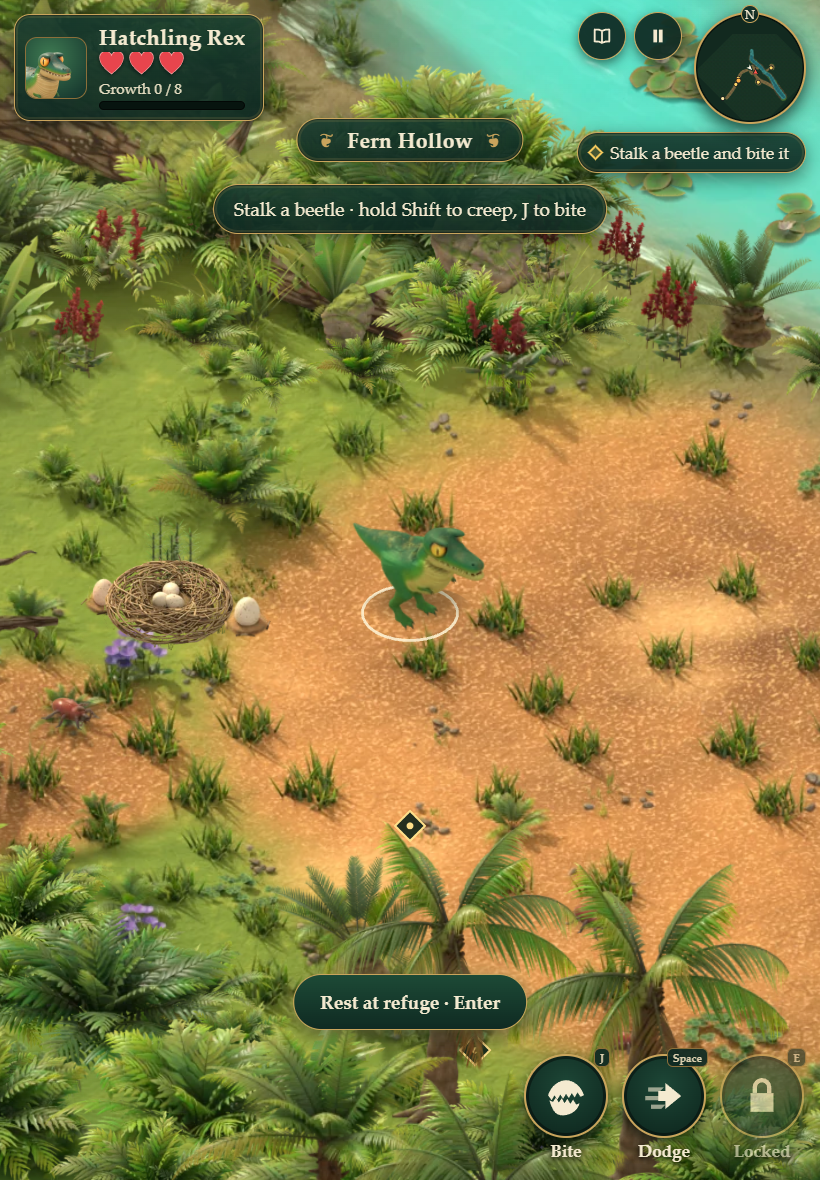
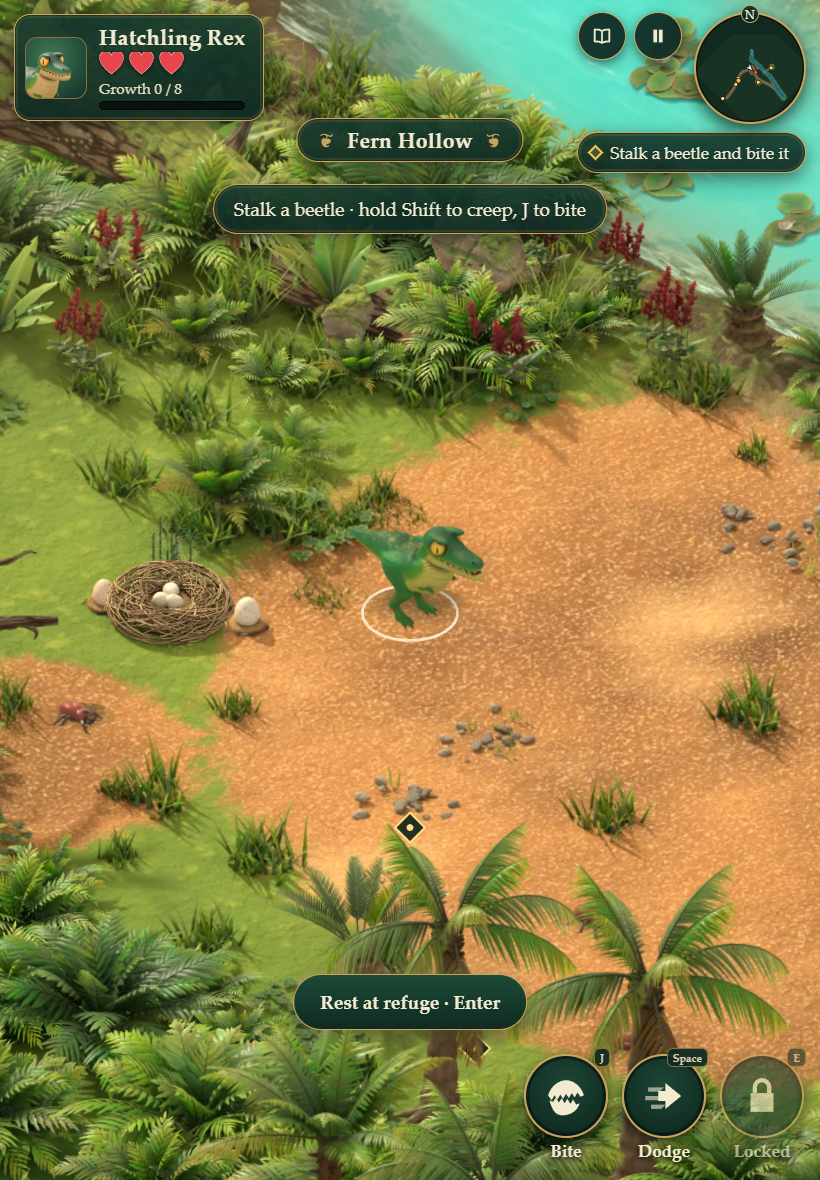
Re-rendered apex Rex, review screenshots, checkpoint; skip tests that need the unadopted connected world

diff --git a/tests/connected-adventure.test.ts b/tests/connected-adventure.test.ts
@@ -1,5 +1,5 @@
 import { describe, expect, it } from 'vitest';
-import { readFileSync } from 'node:fs';
+import { readFileSync, existsSync } from 'node:fs';
 import { gunzipSync } from 'node:zlib';
 import { Adventure, idleInput } from '../src/adventure/sim';
 import { freshAdventure, validateAdventure, mergeAdventure } from '../src/adventure/save';
@@ -16,8 +16,9 @@ const place = (a:Adventure,x:number,y:number,face=0) => Object.assign(a.player,{
 const move = (a:Adventure,x:number,y:number,n=90) => tick(a,n,{...idleInput(),move:{x,y}});
 const bite = (a:Adventure) => {tick(a,1,{...idleInput(),bite:true});tick(a,20);};
 
+const connectedReady = existsSync('public/world-connected/world.json');
 describe('Connected adventure progression',()=>{
-  it('every authored actor spawns and returns to terrain that fits its body in its authored region',()=>{
+  it.skipIf(!connectedReady)('every authored actor spawns and returns to terrain that fits its body in its authored region',()=>{
     const meta=JSON.parse(readFileSync(new URL('../public/world-connected/world.json',import.meta.url),'utf8'));
     const world=parseWorld(meta,gunzipSync(readFileSync(new URL('../public/world-connected/world.bin.gz',import.meta.url))));
     const a=new Adventure(world,freshAdventure());
@@ -152,7 +153,7 @@ describe('Connected adventure progression',()=>{
     expect(world.grid.fits(a.player.x,a.player.y,a.radius)).toBe(true);a.save.xp.rex=8;a.pendingGrow=true;tick(a,60);
     expect(a.tier).toBe(1);expect(world.grid.fits(a.player.x,a.player.y,a.radius)).toBe(true);expect(a.player.x).toBeGreaterThan(23);
   });
-  it('the actual connected collision grid provides a Rex-sized route to every refuge',()=>{
+  it.skipIf(!connectedReady)('the actual connected collision grid provides a Rex-sized route to every refuge',()=>{
     const meta=JSON.parse(readFileSync(new URL('../public/world-connected/world.json',import.meta.url),'utf8'));
     const world=parseWorld(meta,gunzipSync(readFileSync(new URL('../public/world-connected/world.bin.gz',import.meta.url))));
     const a=new Adventure(world,{...freshAdventure(),xp:{rex:200,raptor:0,trike:0},rivals:['river-hunter','marsh-pack'],gates:GATES.filter(g=>!g.optional).map(g=>g.id)});

diff --git a/tools/art/creatures/rex_mobile_apex.py b/tools/art/creatures/rex_mobile_apex.py
@@ -1,0 +1,38 @@
+"""Compact Hunter/Apex Rex atlases. Logical frame keys remain rex_<stage>.
+
+Runtime divides ActorView sprite scale by meta.renderScale. World lengths,
+radii, pose durations and ground anchors remain unchanged. Native atlases are
+preserved in art-build/creatures/native-packed rather than the public payload.
+"""
+import os,sys,json,shutil,glob
+from PIL import Image,ImageOps
+sys.path.insert(0,os.path.dirname(os.path.dirname(os.path.abspath(__file__))))
+from pack import pack
+root=os.path.abspath(sys.argv[1])
+native=os.path.join(root,'art-build','creatures','native-packed');os.makedirs(native,exist_ok=True)
+for stage,scale in [(3,.5)]:
+    public=os.path.join(root,'public','art','creatures')
+    prior=json.load(open(os.path.join(public,f'rex_{stage}.json')))
+    # Preserve original authored-resolution packed assets once.
+    if 'renderScale' not in prior['meta']:
+        shutil.copy2(os.path.join(public,f'rex_{stage}.json'),native)
+        for page in prior['textures']:shutil.copy2(os.path.join(public,page['image']),native)
+    source=os.path.join(root,'art-build','creatures',f'rex_{stage}')
+    destination=os.path.join(root,'art-build','creatures',f'rex_{stage}_compact')
+    os.makedirs(destination,exist_ok=True)
+    manifest=json.load(open(os.path.join(source,'frames.json')))
+    manifest['meta']['renderScale']=scale
+    for f in manifest['frames']:
+        image=Image.open(os.path.join(source,f['file'])).convert('RGBA')
+        small=image.resize((round(image.width*scale),round(image.height*scale)),Image.Resampling.LANCZOS)
+        ImageOps.expand(small,border=4,fill=(0,0,0,0)).save(os.path.join(destination,f['file']))
+        f['ax']=f['ax']*scale+4;f['ay']=f['ay']*scale+4
+    path=os.path.join(destination,'frames.json');json.dump(manifest,open(path,'w'))
+    pack(path,os.path.join(public,f'rex_{stage}'),95)
+    packed=json.load(open(os.path.join(public,f'rex_{stage}.json')))
+    keep={page['image'] for page in packed['textures']}
+    for page in glob.glob(os.path.join(public,f'rex_{stage}-*.webp')):
+        if os.path.basename(page) not in keep:os.remove(page)
+# Obsolete optional mobile variants are deliberately excluded from publication.
+for path in glob.glob(os.path.join(root,'public','art','creatures','rex_*_mobile*')):
+    if os.path.isfile(path):os.remove(path)

diff --git a/review-checkpoint.md b/review-checkpoint.md
@@ -1,19 +1,25 @@
-# Review checkpoint — Fern Hollow opening is playable (2026-10-10)
+# Review checkpoint: Fern Hollow is playable (2026-10-10)
 
-Branch `rebuild/isometric-world` (local, not pushed). Live game and the draft PR are untouched.
-Preview: `npx vite --host 127.0.0.1 --port 8125` then http://127.0.0.1:8125/tiny-rex/ (choose a profile, Continue).
-Isolated screenshots (Firebase + websockets blocked, throwaway storage): `node tools/qa/shot.mjs out.png 1448 1086 [x,y]`.
+Branch `rebuild/isometric-world` (draft PR against `main`; live game unchanged, merge is Robert's call).
+Preview: `npm ci && npm run dev -- --port 8125`, then http://127.0.0.1:8125/tiny-rex/ (pick a profile, Continue).
+Screenshots come from an isolated browser (Firebase and websockets blocked, throwaway storage): `node tools/qa/shot.mjs out.png 1448 1086 [x,y]`.
 
-Screenshots: `docs/review/01-opening-d.png` (start nest), `docs/review/02-perch-raptor.png` (raptor recovery window, "bite now" prompt).
+| Screenshot | Shows |
+| --- | --- |
+| `docs/review/01-opening-d.jpg` | start nest, clustered ground clutter, layered fringe (compare `art-reference/01-early-fern-hollow.png`) |
+| `docs/review/02-perch-raptor.jpg` | raptor recovery window and "Vulnerable · bite now" prompt, mossy rocky bank |
+| `docs/review/03-ipad-landscape.jpg`, `04-ipad-portrait.jpg` | responsive HUD at 1366x1024 and 820x1180 |
+| `docs/review/05-title.jpg` | title over the live valley |
+| `docs/review/06-waterfall-pool.jpg`, `07-log-arch.jpg` | waterfall pool with columnar cliff; fallen-log arch (props fade when they hide the hatchling) |
 
-## State
-- Adopted Codex's repaired snapshot (compiling build, packed Rex x4 / raptor / trike / prey atlases, 117 Hollow ground tiles,
-  save migration, 61 passing unit tests). The connected six-region world (`public/world-connected`) is NOT adopted; its two tests fail until then.
-- This pass: closer camera (hatchling ~13% of width, stage zoom 1.35/1.2/1.05/0.92), warm light + forest vignette,
-  a real start nest with eggs, ringed boulders, layered fern/broadleaf/flower fringe (`tools/world/dress_hollow.py`, art-only, no collision change).
+## What changed in this pass
+- Adopted Codex's repaired snapshot (compiling, packed atlases, 117 ground tiles, save migration). Connected six-region world (`public/world-connected`) is NOT adopted; 2 tests that need it are skipped.
+- Camera closer (hatchling ~13% of width), warm light + forest vignette, title scrim.
+- Ground re-baked (35 tiles around the opening): clustered tufts/clover/pebble fields instead of an even grid, ragged dirt/grass edges, stones through the shallows. Start nest with eggs, ringed boulders, denser fern/broadleaf fringe (`tools/world/dress_hollow.py`).
+- Apex Rex claw-scar markings softened and re-rendered; props that hide the player fade; open-book icon; ambient jungle bed (wind, water proximity, birds, insects) and impact sounds.
+- Verification: `tsc` clean, 61 unit tests pass (2 skipped), production build passes (65 precache entries, ~9.7 MiB).
 
-## Gaps vs the approved mockups (next)
-1. Ground bake: bare dirt expanse with evenly spaced identical grass tufts, straight grass/dirt seam, flat turquoise creek
-   (no rocks/foam), no dapple from canopy. Needs a Hollow re-render with a smaller clearing, irregular edges, clustered clutter, shoreline rocks.
-2. Rex art: apex still shows pale curved neck marks; materials are acceptable at game size but not yet the reference's integrated markings.
-3. Audio mix, physical iPad performance, human playtests, other regions: unverified / not done.
+## Known gaps
+1. Large flat dirt expanse east of the nest still reads bare next to the mockup; creek bank foam is saw-toothed; no canopy dapple on the dirt.
+2. Rex stages 0-2 markings not revisited; portraits are crops of idle frames.
+3. Other regions (River to Caves) exist only in Codex's copy; physical iPad performance, audio mix and human playtests are unverified. Tests do not prove fun.
